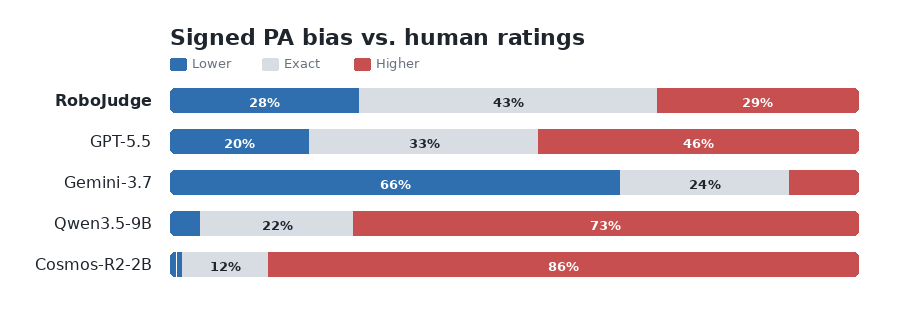
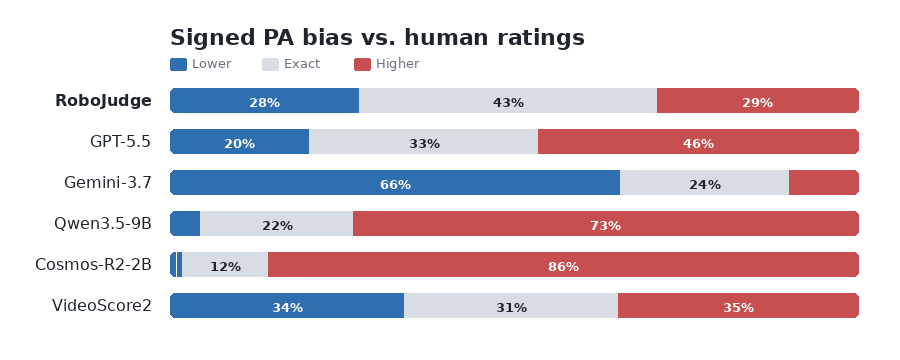
Add VideoScore2 to signed PA bias figure

diff --git a/scripts/plot_signed_bias_pa.py b/scripts/plot_signed_bias_pa.py
@@ -20,6 +20,7 @@ MODELS = [
     ("Gemini-3.7", "gemini_3_7_flash.jsonl"),
     ("Qwen3.5-9B", "qwen3_5_9b_4fps.jsonl"),
     ("Cosmos-R2-2B", "cosmos_reason2_2b.jsonl"),
+    ("VideoScore2", "videoscore2_8b.jsonl"),
 ]
 
 COLORS = {
@@ -156,7 +157,7 @@ def draw_centered(
 def draw_chart(stats: list[dict]) -> None:
     OUT_PATH.parent.mkdir(parents=True, exist_ok=True)
 
-    width, height = 900, 320
+    width, height = 900, 360
     img = Image.new("RGB", (width, height), COLORS["bg"])
     draw = ImageDraw.Draw(img)
 
